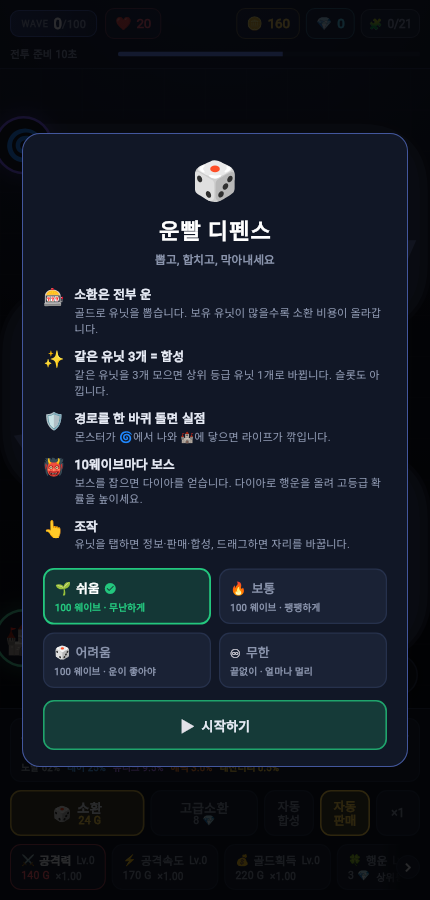
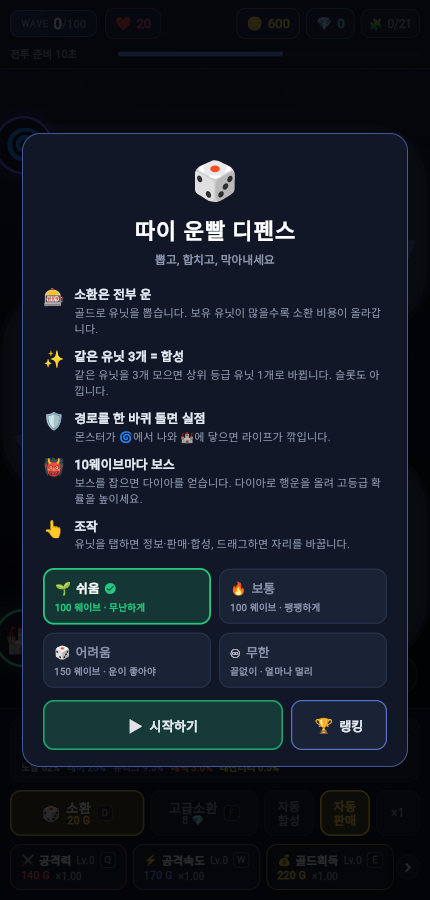
chore: 제목을 «따이 운빨 디펜스» 로 바꾼다
제목이 드러나는 자리를 모두 맞췄다 — 인트로 화면, 브라우저 탭(MaterialApp),
web/index.html 의 <title>·OG 태그·iOS 홈화면 이름·로딩 스플래시,
manifest 의 name·short_name, README 제목, 밸런스 리포트 헤더.

장르 설명에서 「메이플 운빨 디펜스」를 빼고 그냥 「운빨 디펜스」 계열로 적는다.

README 첫 스크린샷에 옛 제목이 크게 박혀 있어 같은 430x900 으로 다시 찍었다.
그동안 밀려 있던 것도 함께 최신이 됐다 — 어려움 150웨이브, 소환 20 G,
랭킹 버튼, 단축키 키캡.

저장소 이름과 패키지명(ddai_lucky_defense)은 그대로 둔다. 바꾸면 배포 주소가
깨지고 이미 쌓인 랭킹 기록이 따라오지 않는다.

diff --git a/web/index.html b/web/index.html
@@ -10,23 +10,23 @@
   <meta charset="UTF-8">
   <meta name="viewport" content="width=device-width, initial-scale=1, viewport-fit=cover">
   <meta content="IE=Edge" http-equiv="X-UA-Compatible">
-  <meta name="description" content="뽑고, 합치고, 막아내세요. 운빨 디펜스 — 뽑기 기반 랜덤 디펜스 게임.">
+  <meta name="description" content="뽑고, 합치고, 막아내세요. 따이 운빨 디펜스 — 뽑기 기반 랜덤 디펜스 게임.">
   <meta name="theme-color" content="#070A14">
 
   <!-- 링크를 공유했을 때 보이는 미리보기 -->
   <meta property="og:type" content="website">
-  <meta property="og:title" content="운빨 디펜스">
+  <meta property="og:title" content="따이 운빨 디펜스">
   <meta property="og:description" content="뽑고, 합치고, 막아내세요.">
 
   <!-- iOS -->
   <meta name="mobile-web-app-capable" content="yes">
   <meta name="apple-mobile-web-app-status-bar-style" content="black">
-  <meta name="apple-mobile-web-app-title" content="운빨 디펜스">
+  <meta name="apple-mobile-web-app-title" content="따이 운빨 디펜스">
   <link rel="apple-touch-icon" href="icons/Icon-192.png">
 
   <link rel="icon" type="image/png" href="favicon.png"/>
 
-  <title>운빨 디펜스</title>
+  <title>따이 운빨 디펜스</title>
   <link rel="manifest" href="manifest.json">
 
   <style>
@@ -106,7 +106,7 @@
 <body>
   <div id="loading">
     <div class="dice">🎲</div>
-    <div class="title">운빨 디펜스</div>
+    <div class="title">따이 운빨 디펜스</div>
     <div class="sub">뽑고, 합치고, 막아내세요</div>
     <div class="bar"></div>
   </div>

diff --git a/lib/ui/intro_overlay.dart b/lib/ui/intro_overlay.dart
@@ -38,7 +38,7 @@ class IntroOverlay extends StatelessWidget {
                   const Text('🎲', style: TextStyle(fontSize: 38)),
                   const SizedBox(height: 6),
                   const Text(
-                    '운빨 디펜스',
+                    '따이 운빨 디펜스',
                     style: TextStyle(
                       color: Colors.white,
                       fontSize: 22,

diff --git a/lib/game/lucky_defense_game.dart b/lib/game/lucky_defense_game.dart
@@ -21,7 +21,7 @@ import 'game_state.dart';
 import 'leaderboard.dart';
 import 'record_store.dart';
 
-/// 운빨 디펜스 본체.
+/// 따이 운빨 디펜스 본체.
 ///
 /// 컴포넌트는 모두 [fieldRoot] 아래에 스크린 좌표 그대로 배치한다.
 /// (카메라 변환을 쓰지 않으므로 좌표 계산이 단순하다.)

diff --git a/test/lucky_defense_test.dart b/test/lucky_defense_test.dart
@@ -1492,7 +1492,7 @@ void main() {
       await tester.pump(const Duration(milliseconds: 16));
     }
 
-    expect(find.text('운빨 디펜스'), findsOneWidget);
+    expect(find.text('따이 운빨 디펜스'), findsOneWidget);
     expect(find.text('소환'), findsOneWidget);
     expect(find.text('시작하기'), findsOneWidget);
 

diff --git a/lib/main.dart b/lib/main.dart
@@ -30,7 +30,7 @@ class LuckyDefenseApp extends StatelessWidget {
   @override
   Widget build(BuildContext context) {
     return MaterialApp(
-      title: '운빨 디펜스',
+      title: '따이 운빨 디펜스',
       debugShowCheckedModeBanner: false,
       scrollBehavior: const AppScrollBehavior(),
       theme: ThemeData(

diff --git a/tool/balance_sim.dart b/tool/balance_sim.dart
@@ -449,7 +449,7 @@ String _pad(String s, int width) {
 }
 
 void _report() {
-  stdout.writeln('운빨 디펜스 밸런스 리포트');
+  stdout.writeln('따이 운빨 디펜스 밸런스 리포트');
   stdout.writeln('─' * 62);
   for (final mode in GameMode.values) {
     double hp(int w) => Balance.enemyHp(w, mode);

diff --git a/README.md b/README.md
@@ -1,4 +1,4 @@
-# 운빨 디펜스 (Lucky Defense)
+# 따이 운빨 디펜스 (Lucky Defense)
 
 **뽑고, 합치고, 막아내세요.** 실력보다 운이 승부를 가르는 랜덤 디펜스 게임입니다.
 
@@ -10,7 +10,7 @@
 
 ## 어떤 게임인가
 
-스타크래프트 유즈맵 「메이플 운빨 디펜스」 계열입니다.
+스타크래프트 유즈맵 「운빨 디펜스」 계열입니다.
 
 몬스터가 🌀에서 나와 지그재그 길을 한 바퀴 돌아 🏰에 닿으면 라이프가 깎입니다.
 막으려면 유닛을 세워야 하는데, **유닛은 골라서 살 수 없습니다.** 골드를 내고 뽑으면
